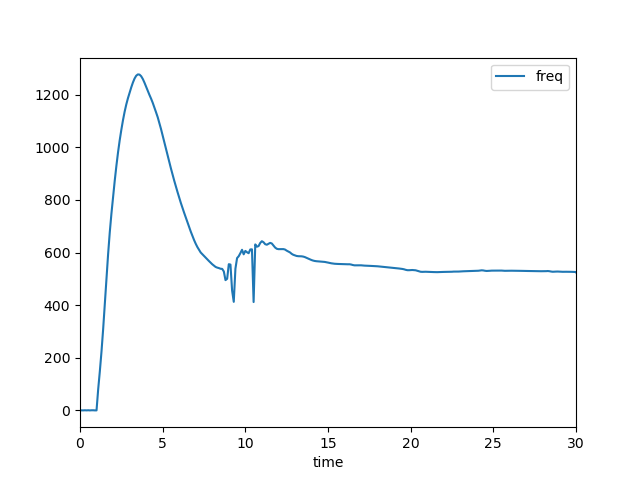
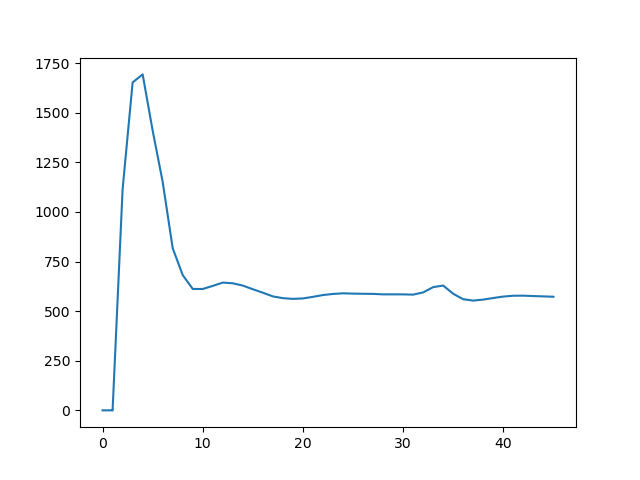
20240322

diff --git a/AGC/plot.py b/AGC/plot.py
@@ -9,6 +9,7 @@ import dyntools
 
 # ----------------------open file-------------------------
 casefile = os.path.join(r"D:\github\PSS-E\AGC\117P-11007.sav")
+# dyrfile  = os.path.join(r"D:\github\PSS-E\AGC\P-11007.dyr")
 dyrfile  = os.path.join(r"D:\github\PSS-E\AGC\P-11007-AGC8.dyr")
 outfile  = os.path.join(r"C:\Program Files\114\outfile\agc.out")
 progfile = os.path.join(r"C:\Program Files\114\txtfile\agc.txt")
@@ -49,8 +50,10 @@ for i in range(0, NDM*4+2):
 psspy.strt(0,outfile)
 psspy.run (0,  1, 1000, 1000, 0)
 psspy.dist_machine_trip(107, r"1")  # 423
+# psspy.dist_machine_trip(108, r"1")  # 423
+# psspy.dist_machine_trip(109, r"1")  # 423
 # psspy.dist_machine_trip(321, r"1")  # 270
-# psspy.dist_machine_trip(301, r"1")  # 150
+psspy.dist_machine_trip(301, r"1")  # 150
 psspy.run (0, 45, 1000, 1000, 0)
 
 # ----------------------plot-------------------------
@@ -70,10 +73,16 @@ for i in range(0, len(chandata['time'])):
         steady_s += 1 
 avg = avg/steady_s
 avg_arr = [avg for i in range(0, len(chandata['time']))]
-plt.plot   (chandata['time'], avg_arr, label=str(avg_arr[0]))
+print(avg_arr)
 print(avg_arr[0])
+print(type(str(avg_arr[0])))
+ss = str(avg_arr[0])
+plt.plot   (chandata['time'], avg_arr, label=ss)
+print("----------------------------------------")
+print("freqence = " + str(avg_arr[0]))
 
-# plt.savefig('after1.png')
+# plt.savefig('before.png')
+plt.savefig('after1590.png')
 # # print(chandata[5])
 for i in range(2, 5):
     if i == 3:
@@ -82,15 +91,17 @@ for i in range(2, 5):
     plt.figure (i)
     if i == 2:
         plt.plot   (chandata['time'], freq, label='ACE')
+        plt.savefig('ACE1590.png')
     if i == 4:
-        plt.plot   (chandata['time'], freq, label='AACt')    
+        plt.plot   (chandata['time'], freq, label='AACt')
+        plt.savefig('AACt1590.png')    
     plt.legend ()
     plt.xlim   ([0,chandata['time'][-1]])
     plt.xlabel ('time')
 
-#     # plt.savefig('ACE1590.png')
-#     # if i == 5:
-#     #     plt.savefig('reg.png')
+    # plt.savefig('ACE1590.png')
+    # if i == 5:
+    #     plt.savefig('reg.png')
 # for i in range(5, 9):
 #     if i == 5:
 #         freq1    = [f for f in chandata[4*(i-4)+2]]
@@ -146,10 +157,11 @@ for i in range(2, 5):
 for i in range(38, 39):
     freq    = [f for f in chandata[i]]
     plt.figure (i)
-    plt.plot   (chandata['time'], freq, label='freq')
+    plt.plot   (chandata['time'], freq, label='P available')
     plt.legend ()
     plt.xlim   ([0,chandata['time'][-1]])
     plt.xlabel ('time')
+    plt.savefig('Pava.png')
     # plt.savefig('ACE1590.png')
     # if i == 5:
     #     plt.savefig('reg.png')
